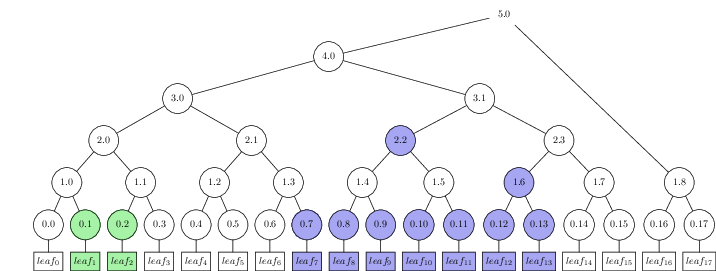
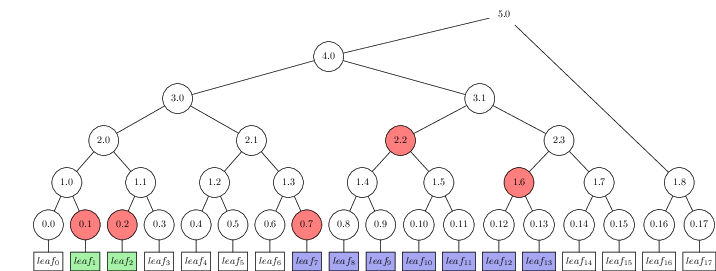
Treetex proofs (#1991)

diff --git a/docs/merkletree/treetex/main.go b/docs/merkletree/treetex/main.go
@@ -186,9 +186,14 @@ func drawLeaf(prefix string, index uint64, leafText, dataText nodeTextFunc) {
 	a := nInfo[id]
 
 	// First render the leaf node of the Merkle tree
+	a.rangeIndices = nil
+	a.incPath = false
 	fmt.Printf("%s [%s, %s, align=center, tier=leaf\n", prefix, leafText(id), a.String())
+
 	// and then a child-node representing the leaf data itself:
+	a = nInfo[id]
 	a.leaf = true
+	a.incProof = false // inclusion proofs don't include leafdata (just the leaf hash above)
 	fmt.Printf("  %s [%s, %s, align=center, tier=leafdata]\n]\n", prefix, dataText(id), a.String())
 }
 
@@ -295,11 +300,17 @@ func modifyRangeNodeInfo() error {
 		// Set leaves:
 		for i := l; i < r; i++ {
 			id := compact.NewNodeID(0, i)
-			modifyNodeInfo(id, func(n *nodeInfo) { n.rangeIndices = append(n.rangeIndices, ri) })
+			modifyNodeInfo(id, func(n *nodeInfo) {
+				n.rangeIndices = append(n.rangeIndices, ri)
+			})
 		}
 
 		for _, id := range compact.RangeNodes(l, r) {
-			modifyNodeInfo(id, func(n *nodeInfo) { n.rangeIndices = append(n.rangeIndices, ri) })
+			modifyNodeInfo(id, func(n *nodeInfo) {
+				n.incProof = true
+				// TODO(al): make the multi-range stuff work here.
+				// n.rangeIndices = append(n.rangeIndices, ri)
+			})
 		}
 	}
 	return nil
